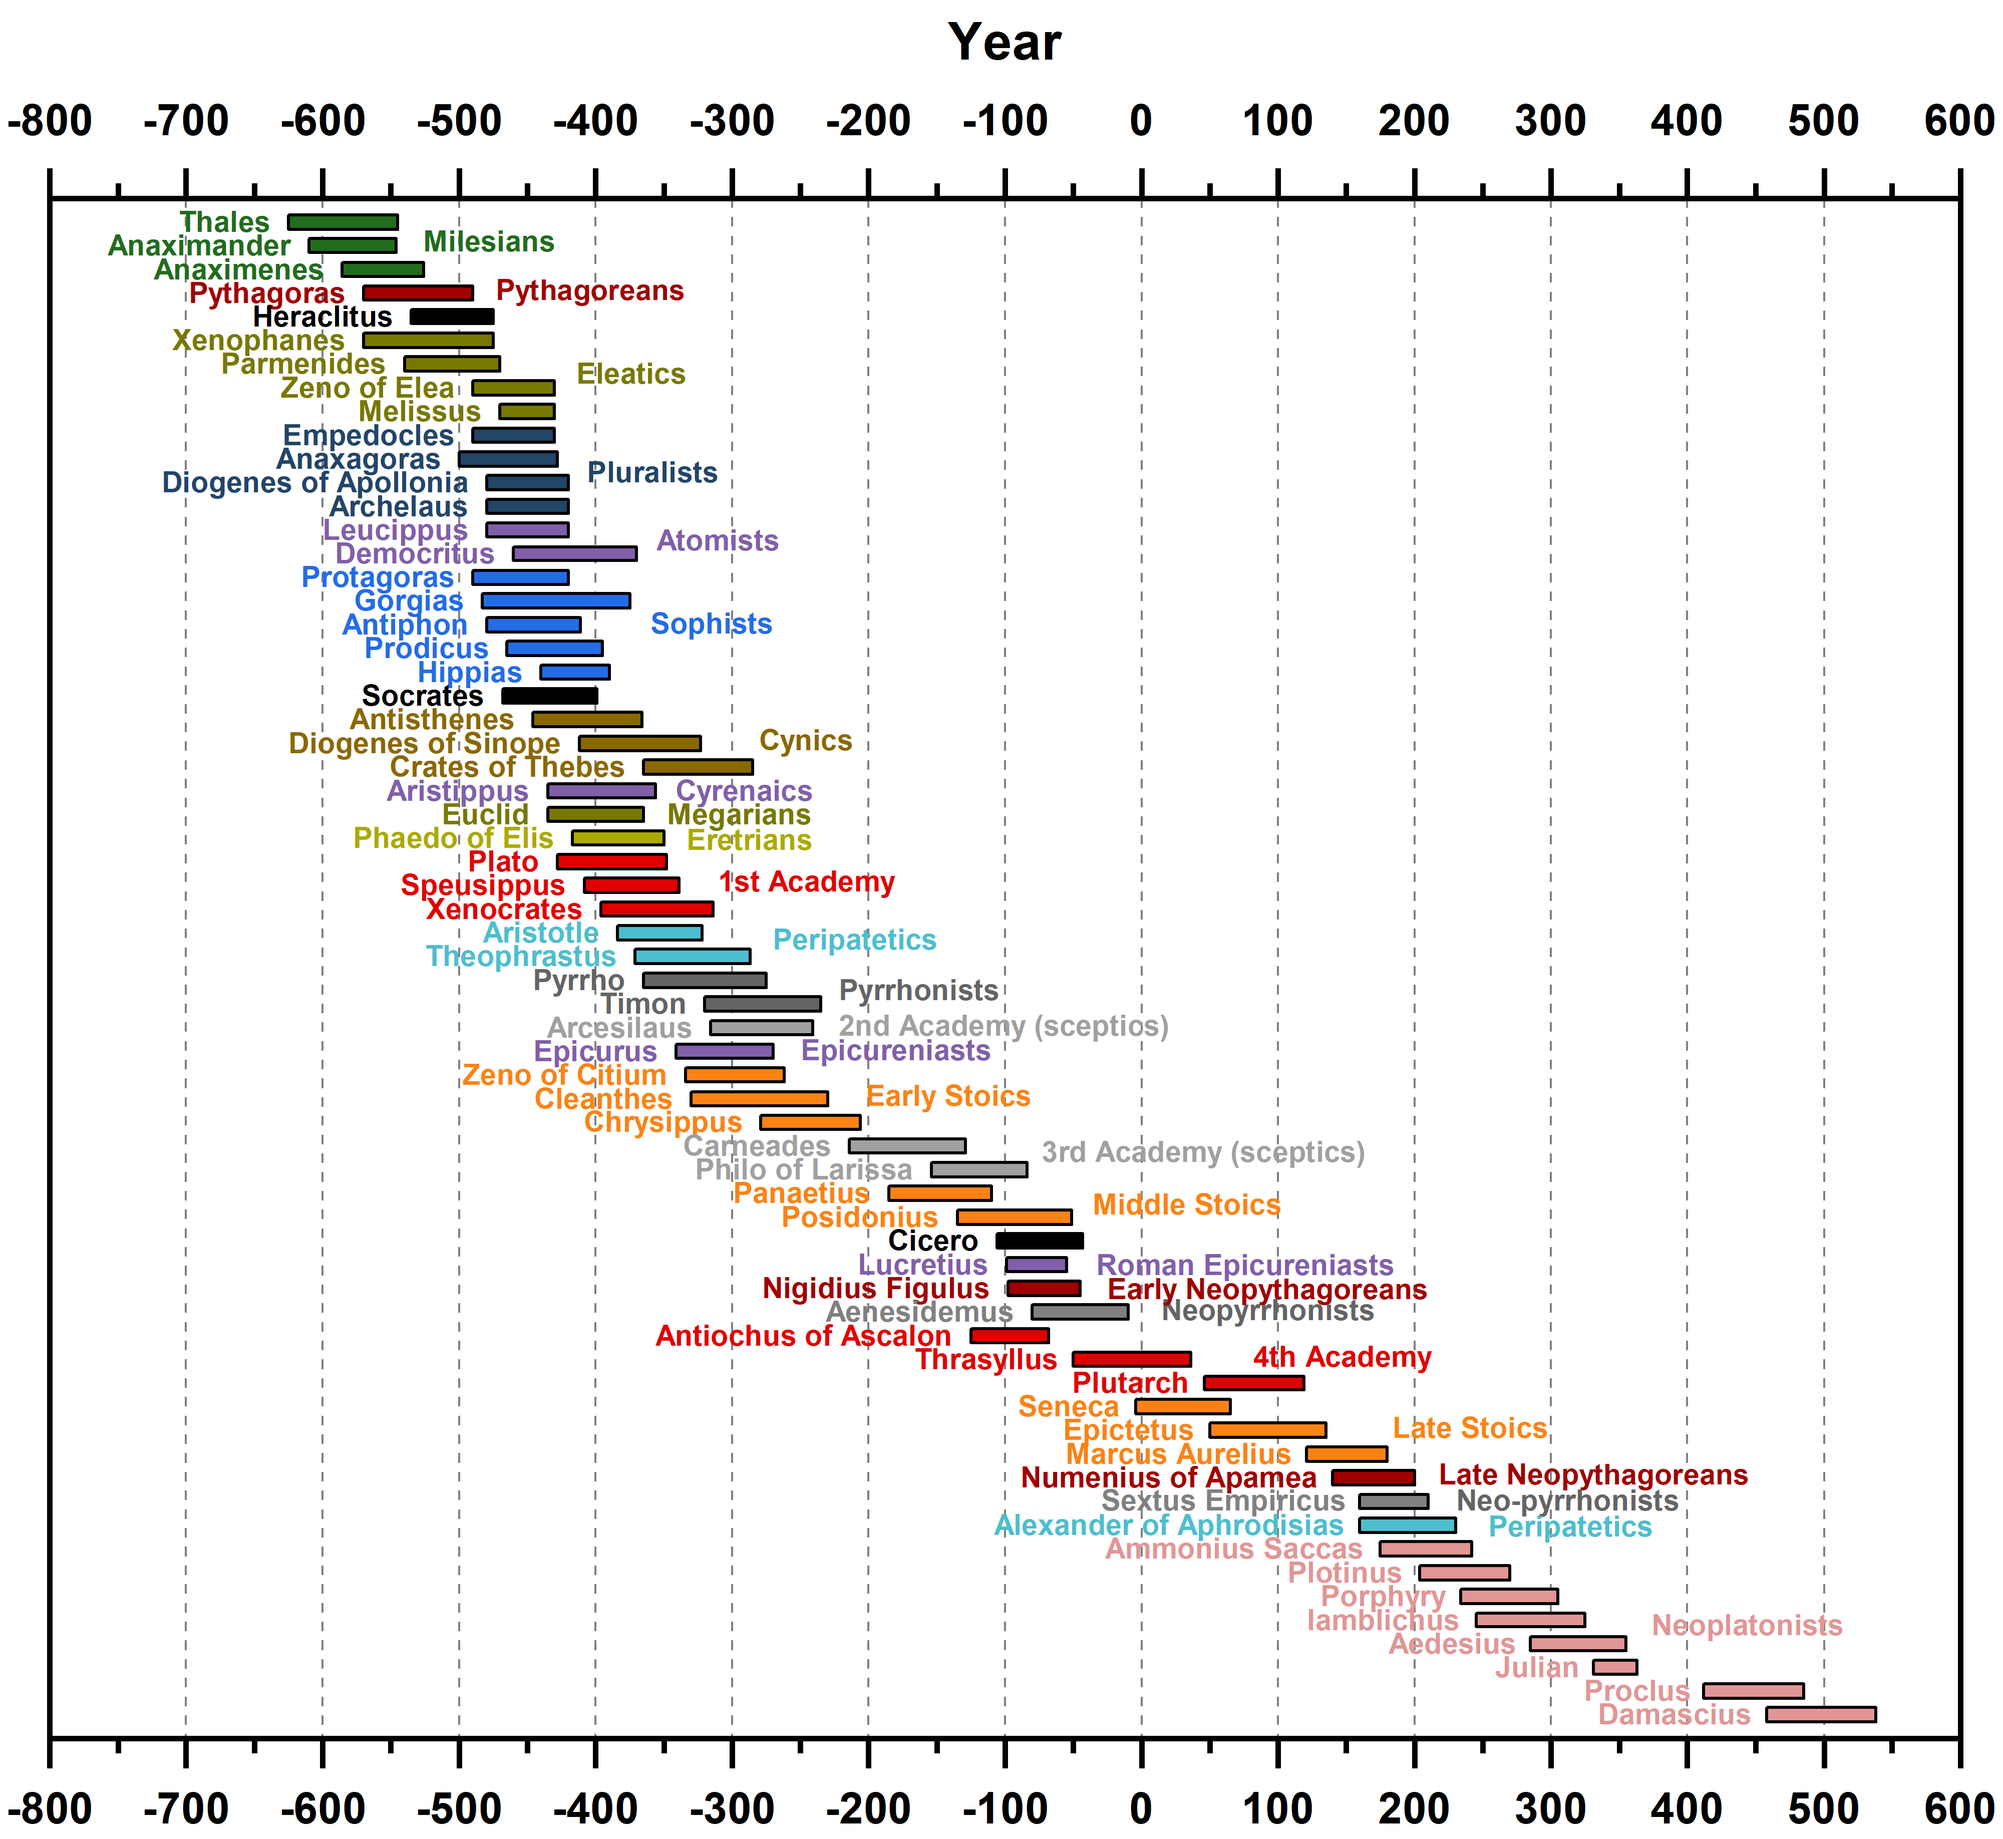
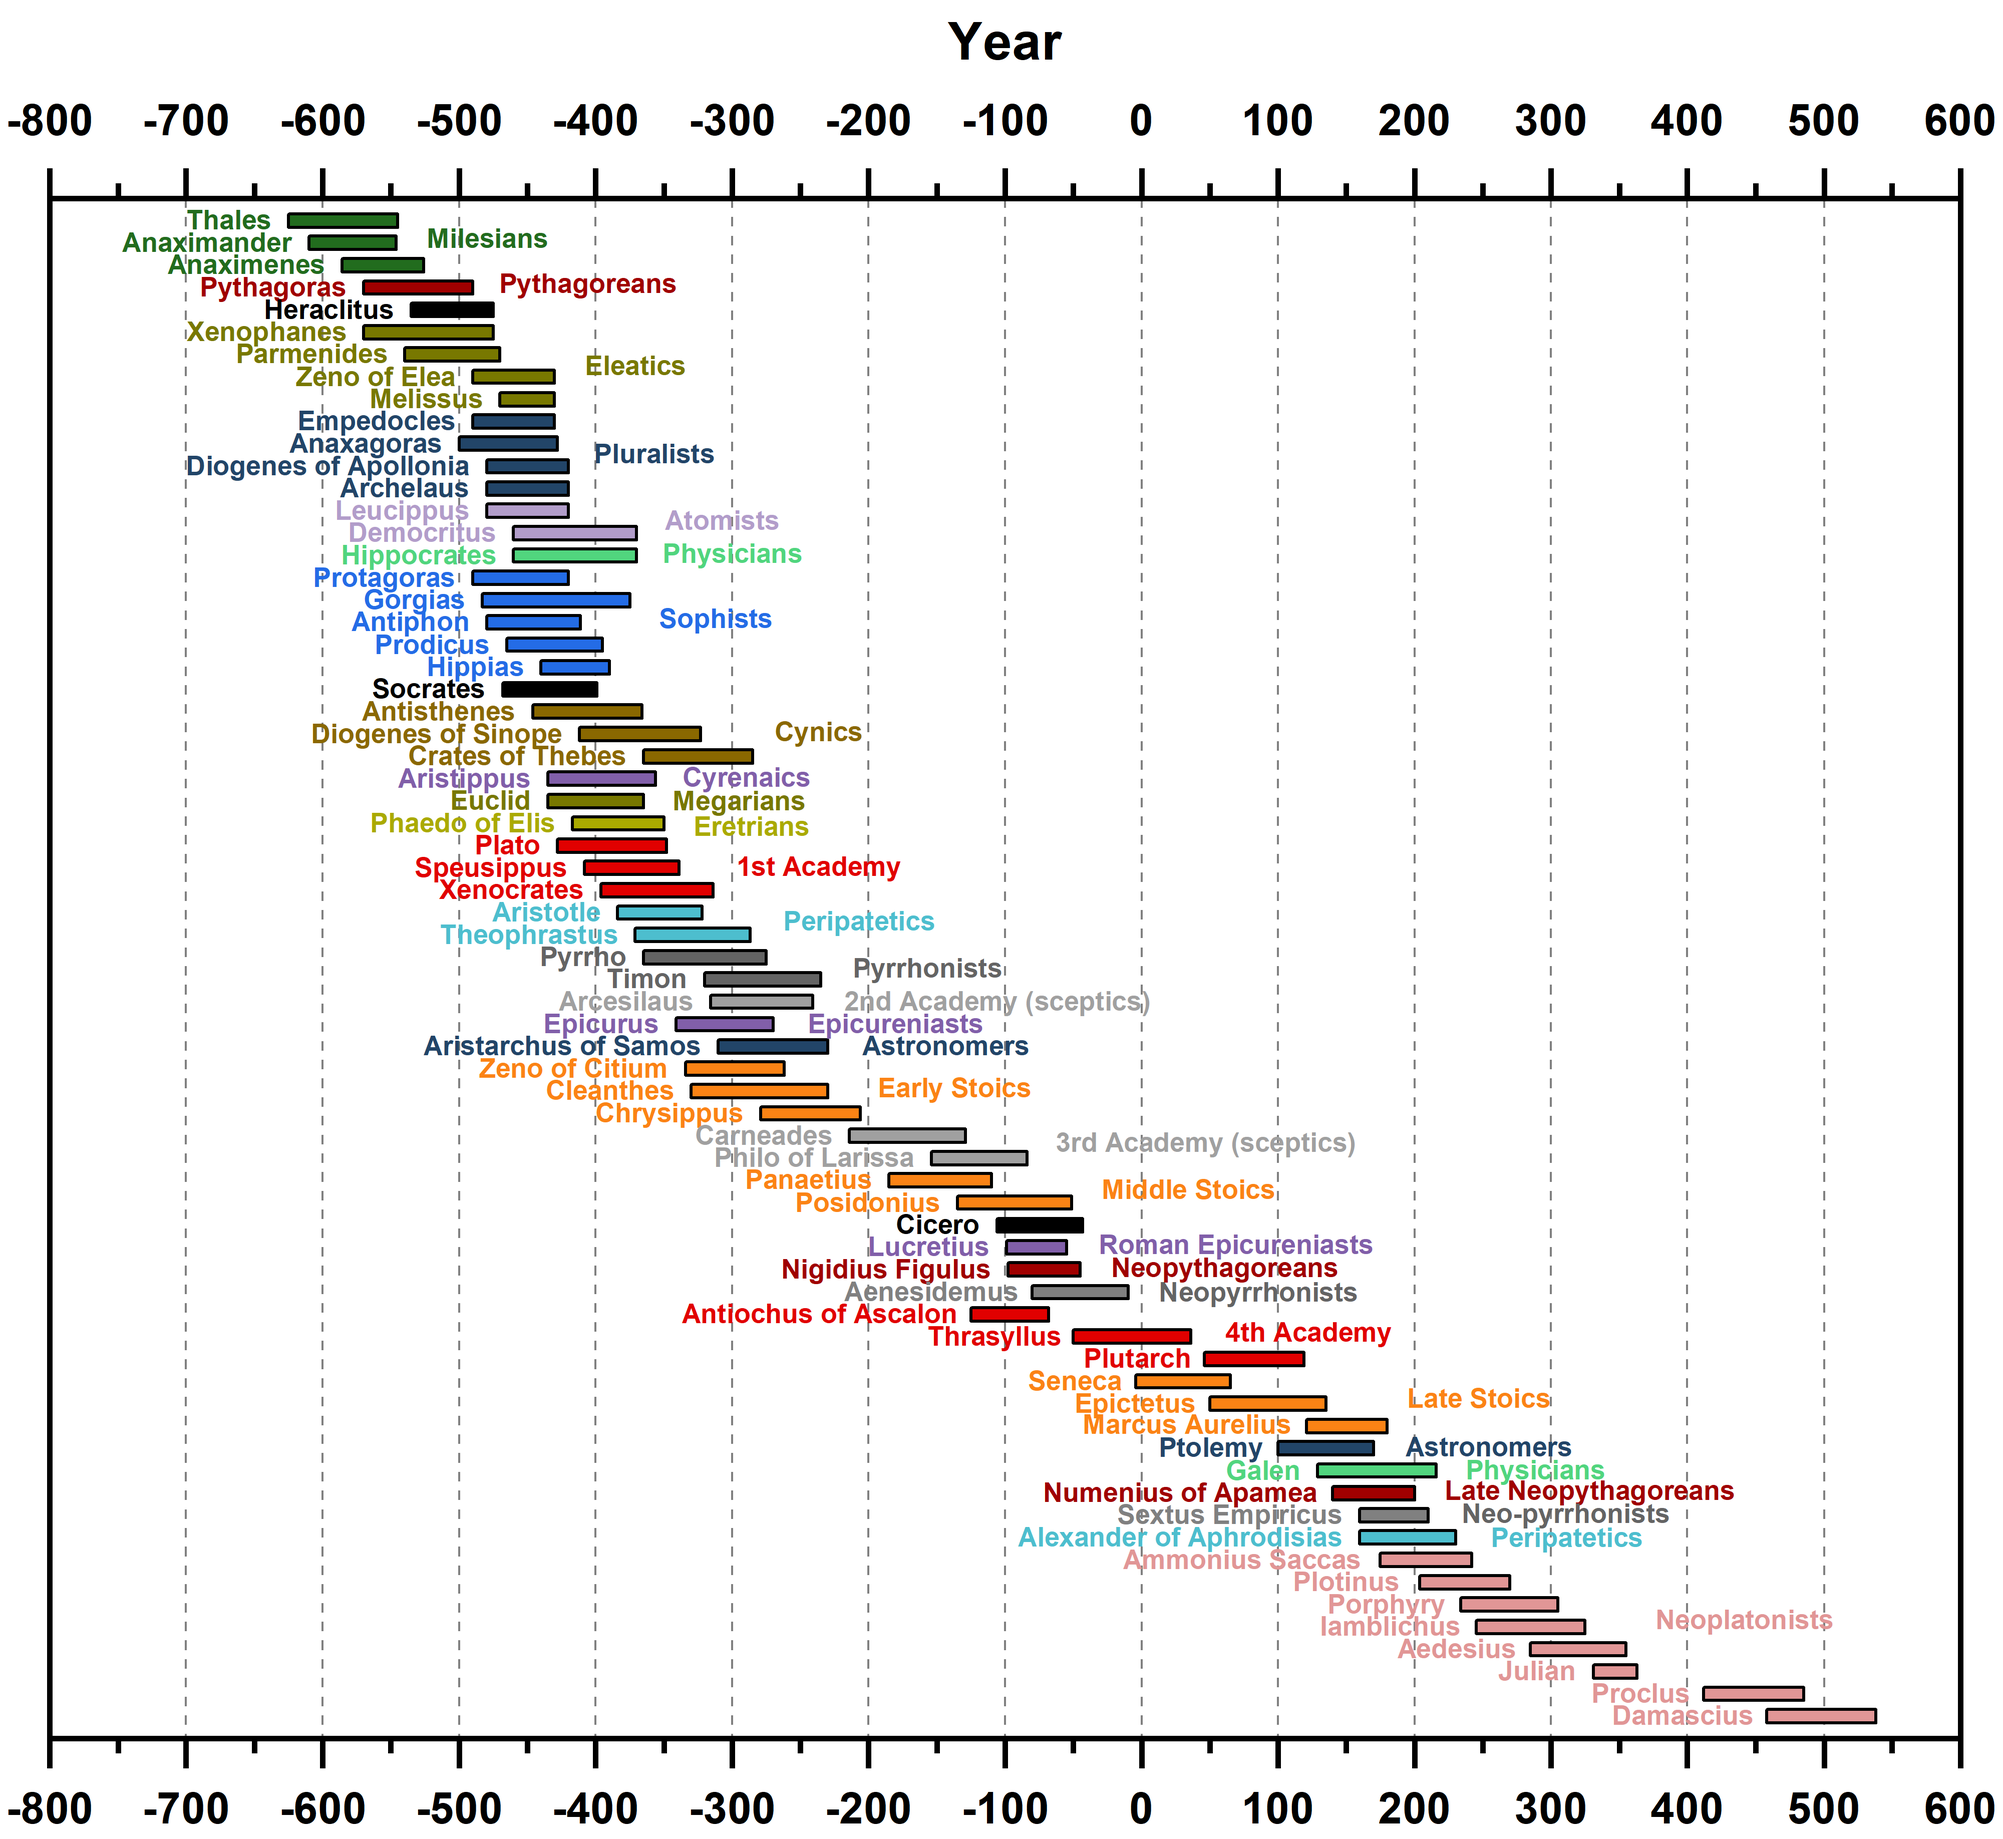
Added Renaissance

Changed region(s): [[0.0625, 0.0931, 0.9062, 0.9624]]

diff --git a/_pages/philosophy.md b/_pages/philosophy.md
@@ -17,9 +17,9 @@ reminding you that some philosophers from the "same" period were as far away fro
 The list is mostly based on Reale and Antiseri's <i>"Il pensiero occidentale dalle origini ad oggi"</i> in three volumes,
 with some additions from various sources. Overall, currently, there are three periods ready, which you can find below:
 
-* <b>Ancient</b> philosophy (64 names);
+* <b>Ancient</b> philosophy (68 names);
 * <b>Medieval</b> philosophy (80 names);
-* * <b>Renaissance</b> philosophy ().
+* <b>Renaissance</b> philosophy (52 names).
 
 The following periods are in works and will come soon:
 
@@ -31,10 +31,14 @@ version of this project, I plan to re-work it into interactive graphs for the fu
 
 <p style="color:#888888;"><i>Note: some dates are only approximate, and the categorization is mostly for my own convenience and the ease of learning, not always based on the shared school of thought.</i></p>
 
-<h2>Ancient philosophy (64 names)</h2>
+<h2>Ancient philosophy (68 names)</h2>
 
 <img src="/images/philosophy_ancient.png">
 
 <h2>Medieval philosophy (80 names)</h2>
 
 <img src="/images/philosophy_medieval.png">
+
+<h2>Renaissance philosophy (52 names)</h2>
+
+<img src="/images/philosophy_renaissance.png">
